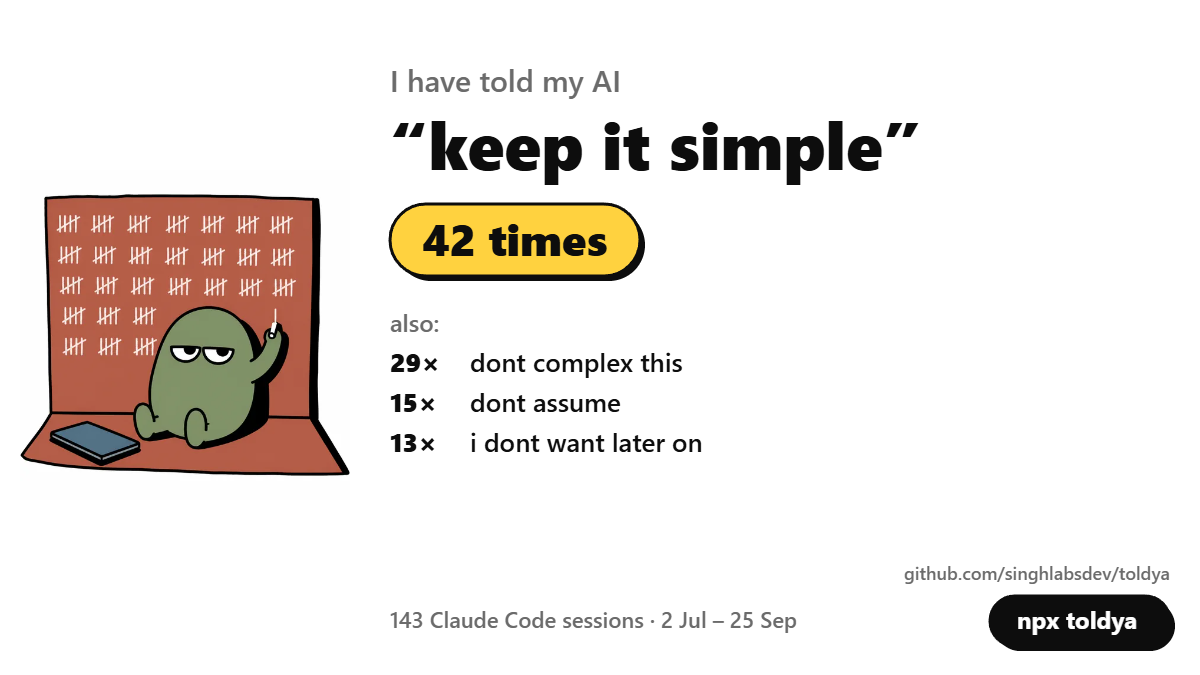
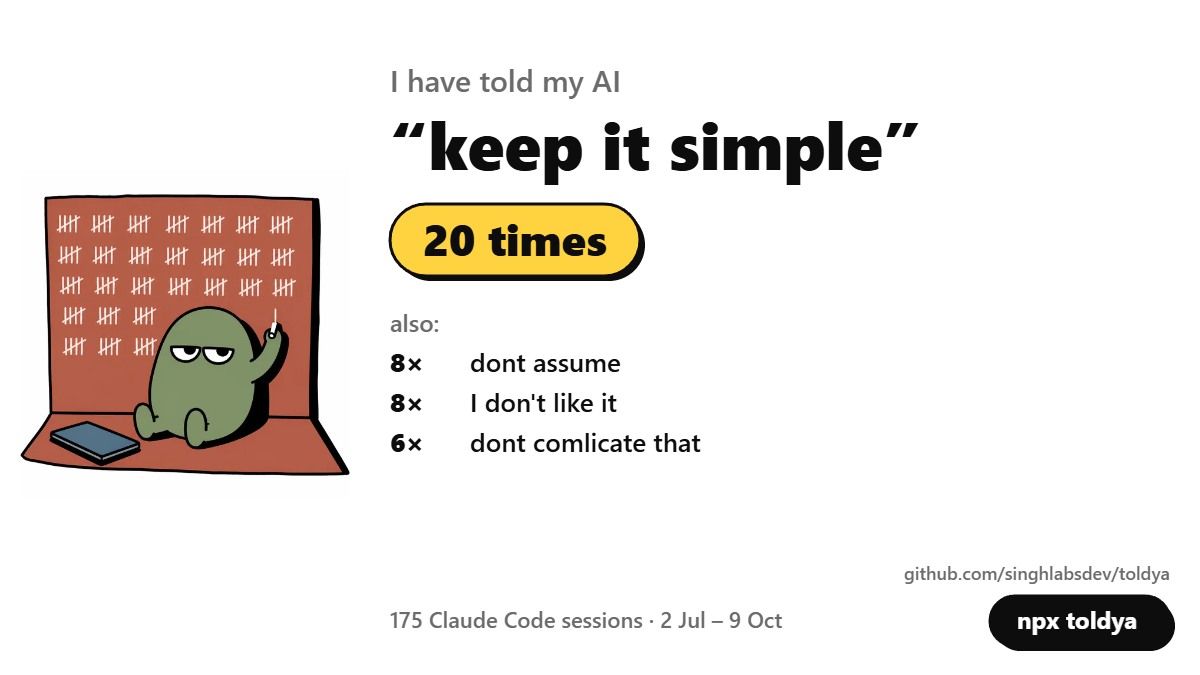
README: recount with 0.3.3, "keep it simple" 20 times, not 40
The report, demo and card are fresh runs of 0.3.3 on the same history
(2 Jul - 9 Oct). The demo now uses --min 6 so the list is the top five, and
picks 1,2,4. demo_gif.py: frame one line taller for the star line, and the
add scene shows the "Added" line rather than the last line printed.

diff --git a/scripts/demo_gif.py b/scripts/demo_gif.py
@@ -1,8 +1,8 @@
 """Render assets/demo.gif and assets/report.png from captured real runs.
 
 The text on every frame is the tool's actual output, captured into demo/run*.txt by:
-  toldya --all --min 9 --dry                      > run1.txt
-  toldya --all --min 9 --add 1,2,3 --to CLAUDE.md > run2.txt
+  toldya --all --min 6 --dry                      > run1.txt
+  toldya --all --min 6 --add 1,2,4 --to CLAUDE.md > run2.txt
   cat CLAUDE.md                                   > run3.txt
 Only the typing animation is added. Usage: python scripts/demo_gif.py <folder with run*.txt>
 """
@@ -14,7 +14,7 @@ src = Path(sys.argv[1])
 out = Path(__file__).resolve().parent.parent / 'assets'
 out.mkdir(exist_ok=True)
 
-W, H, PAD, LH = 980, 410, 28, 26
+W, H, PAD, LH = 980, 440, 28, 26
 BG, BAR, FG, DIM = (22, 24, 33), (38, 41, 54), (226, 228, 235), (140, 146, 165)
 PINK, YEL, GRN, SAGE = (255, 144, 232), (255, 210, 63), (126, 231, 135), (152, 161, 121)
 font = ImageFont.truetype('C:/Windows/Fonts/consola.ttf', 18)
@@ -61,10 +61,10 @@ def scene(cmd, body, hold):
 read = lambda n: (src / f'run{n}.txt').read_text(encoding='utf-8').rstrip('\n').split('\n')
 run1 = read(1)
 while run1 and not run1[0].strip(): run1.pop(0)  # the tool prints a leading blank line
-scene('npx toldya --all --min 9 --dry', run1, 2600)
+scene('npx toldya --all --min 6 --dry', run1, 2600)
 report_png = frames[-1]
 run2 = read(2)
-scene('npx toldya --all --min 9 --add 1,2,3 --to CLAUDE.md', [run2[-1]], 1400)
+scene('npx toldya --all --min 6 --add 1,2,4 --to CLAUDE.md', [l for l in run2 if l.startswith('Added')], 1400)
 scene('cat CLAUDE.md', read(3), 3200)
 
 report_png.save(out / 'report.png')

diff --git a/README.md b/README.md
@@ -28,9 +28,9 @@ it counts whether you still had to say it.
 
 A real run. Not a mock-up.
 
-<p align="center"><img src="assets/report.png" width="100%" alt="toldya report: keep it simple 40 times in 36 sessions, dont complex this 29 times, dont assume 15 times, and 71 times it was told to try or check again"></p>
+<p align="center"><img src="assets/report.png" width="100%" alt="toldya report: keep it simple 20 times in 20 sessions, dont assume 8 times, I don't like it 8 times, and 42 times it was told to try or check again"></p>
 
-142 sessions. "Keep it simple" 40 times. Rewordings and typos count as one habit: "Don't
+175 sessions. "Keep it simple" 20 times. Rewordings and typos count as one habit: "Don't
 complicate it" and "dont complex this" are the same thing said twice.
 
 ## Use it
@@ -71,7 +71,7 @@ drawn on your machine; nothing leaves it unless you click share.
 
 Post yours in [Share your card](https://github.com/singhlabsdev/toldya/discussions/1). What's your top line?
 
-<p align="center"><img src="assets/card.png" width="100%" alt="toldya card: I have told my AI keep it simple 42 times. Also: dont complex this 29, dont assume 15, i dont want later on 13"></p>
+<p align="center"><img src="assets/card.png" width="100%" alt="toldya card: I have told my AI keep it simple 20 times. Also: dont assume 8, I don't like it 8, dont comlicate that 6"></p>
 
 ## What it reads, and what it doesn't
 
@@ -79,7 +79,8 @@ Post yours in [Share your card](https://github.com/singhlabsdev/toldya/discussio
   Not the AI's replies, not tool output, not your files.
 - Long messages are treated as pastes (briefs, logs) and skipped. Questions and "I don't
   understand" are not corrections, so they're skipped too.
-- A repeat counts only if it shows up in **at least two sessions**.
+- A repeat counts only if it shows up in **at least two sessions**. A resumed session copies the
+  earlier messages into a new file; each message still counts once, in the session you typed it in.
 - Short "try again" / "check again" messages are counted separately. They mean the first
   attempt missed, but they aren't rules you can write down.
 - **Sends nothing anywhere.** No account, no telemetry, no network calls.
